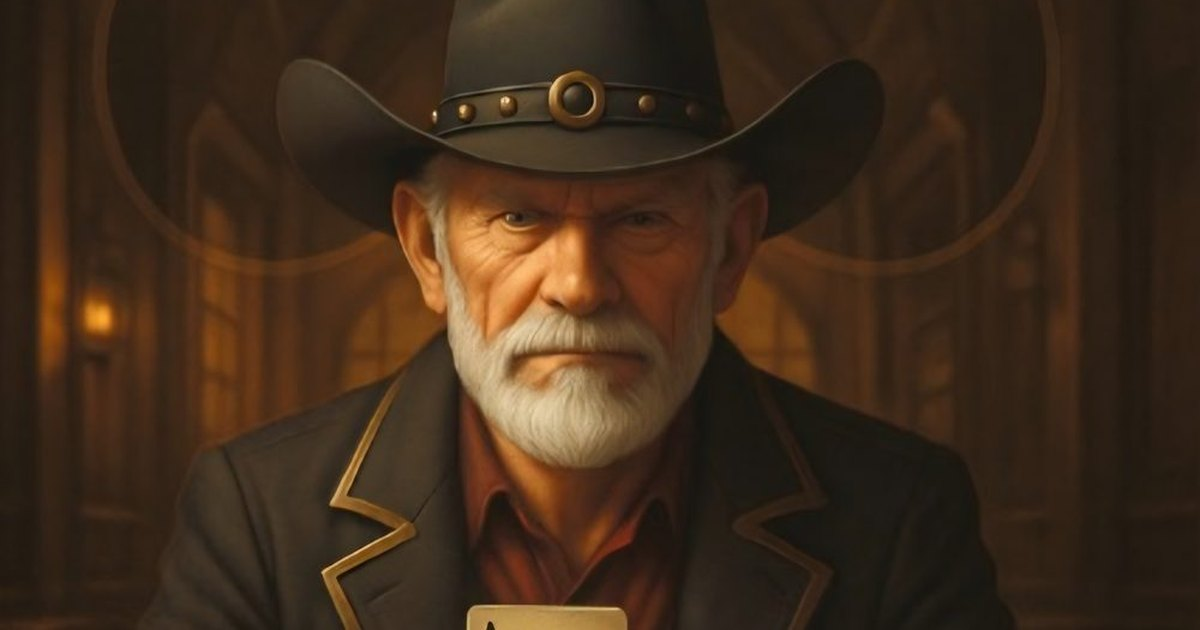
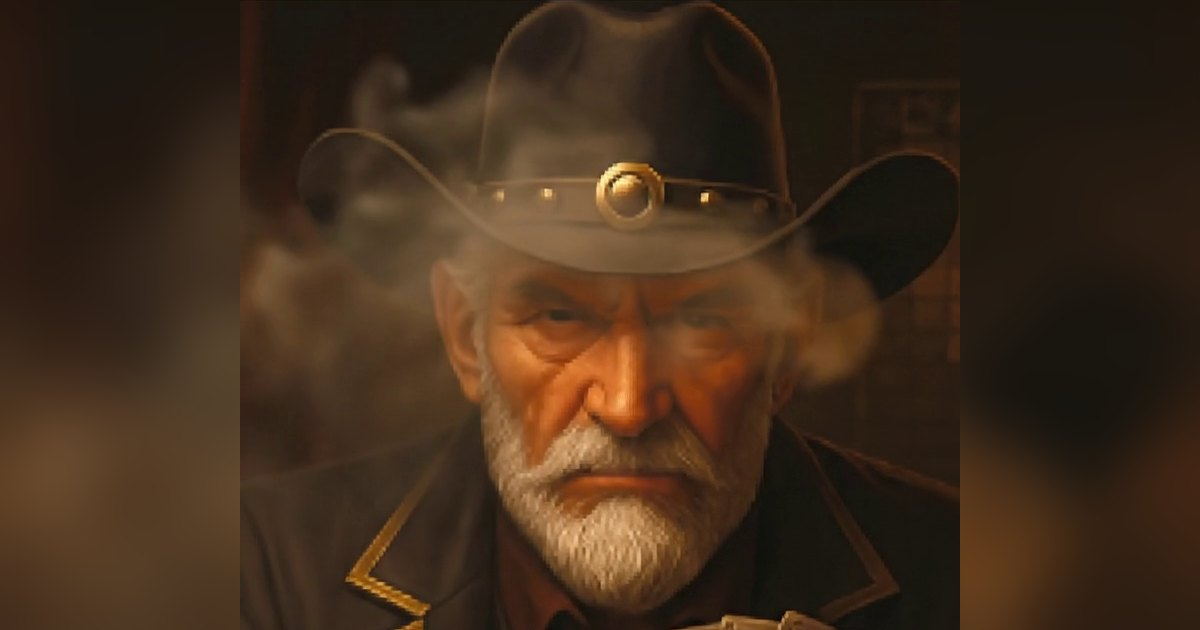
Landing: hero is the smoke frame from the Ace video
Frame at 2.24 s of the AceCards clip the app plays (Ace blowing smoke off a
card), 720x980 WebP named hero-smoke.webp so no cache serves the old file;
share image rebuilt from the same frame; phone hero box taller so the face
shows. Previous hero kept as og.jpg.

diff --git a/index.html b/index.html
@@ -22,7 +22,7 @@
 <link rel="icon" href="/favicon.ico" sizes="32x32">
 <link rel="icon" type="image/webp" href="/icon-192.webp" sizes="192x192">
 <link rel="apple-touch-icon" href="/apple-touch-icon.png">
-<link rel="preload" href="/hero.webp" as="image" type="image/webp" fetchpriority="high">
+<link rel="preload" href="/hero-smoke.webp" as="image" type="image/webp" fetchpriority="high">
 <link rel="preload" href="/fonts/playfair-display-900.woff2" as="font" type="font/woff2" crossorigin>
 <link rel="preload" href="/fonts/oswald-400.woff2" as="font" type="font/woff2" crossorigin>
 <link rel="preload" href="/fonts/crimson-pro-400.woff2" as="font" type="font/woff2" crossorigin>
@@ -892,7 +892,8 @@ footer {
 /* -- RESPONSIVE -- */
 @media (max-width: 960px) {
   .hero { grid-template-columns: 1fr; }
-  .hero-image { min-height: 55vw; height: 55vw; }
+  .hero-image { min-height: 100vw; height: 100vw; }
+  .hero-image img { object-position: center 20%; }
   .hero-text { padding: 60px 28px 52px; }
   .section { padding: 72px 28px; }
   .truth { grid-template-columns: 1fr; gap: 40px; }
@@ -953,7 +954,7 @@ footer {
     </div>
   </div>
   <div class="hero-image">
-    <img src="/hero.webp" alt="PowerFold Theory, own the table" width="1000" height="756" fetchpriority="high" decoding="async" />
+    <img src="/hero-smoke.webp" alt="Ace, the PowerFold coach, blowing smoke off a card at the table" width="720" height="980" fetchpriority="high" decoding="async" />
   </div>
 </section>
 <div class="hero-rule"></div>
